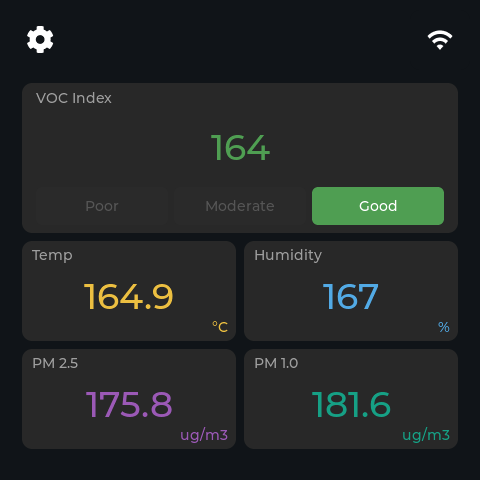
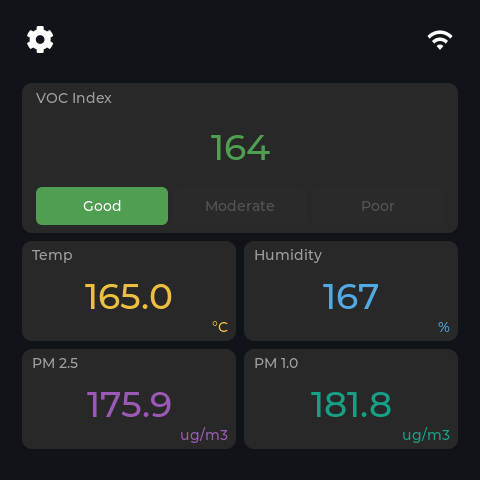
fix(sensor): swap VOC state segment order from Poor→Good to Good→Poor
- Change segment layout direction: Good (left), Moderate (center), Poor (right)
- Update sim screenshot

diff --git a/main/sensor/sensor_view.c b/main/sensor/sensor_view.c
@@ -156,9 +156,9 @@ static void _create_voc_card(lv_obj_t *tile)
     lv_obj_align(st, LV_ALIGN_CENTER, 0, -23);
     s_voc_state_lbl = st;
 
-    /* ── 3 state segments (Poor=left, Moderate=center, Good=right) ── */
+    /* ── 3 state segments (Good=left, Moderate=center, Poor=right) ── */
     for (int i = 0; i < N_VOC_STATES; i++) {
-        int32_t sx = SEG_MARGIN + (N_VOC_STATES - 1 - i) * (SEG_W + SEG_GAP);
+        int32_t sx = SEG_MARGIN + i * (SEG_W + SEG_GAP);
 
         lv_obj_t *seg = lv_obj_create(card);
         lv_obj_set_size(seg, SEG_W, SEG_H);